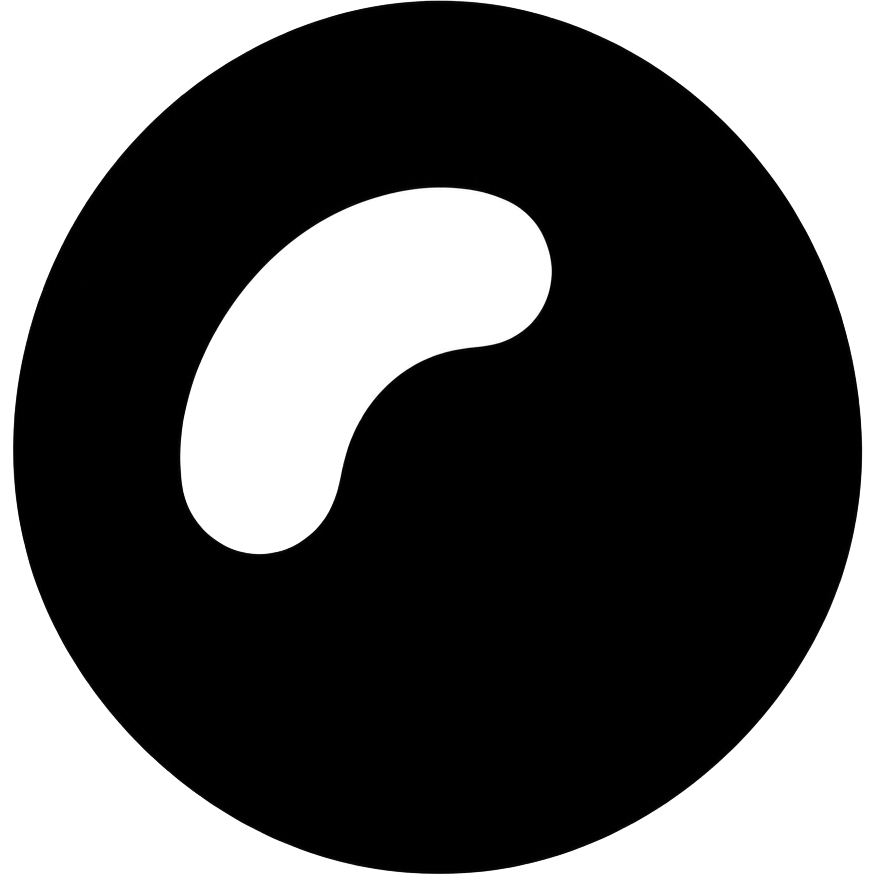
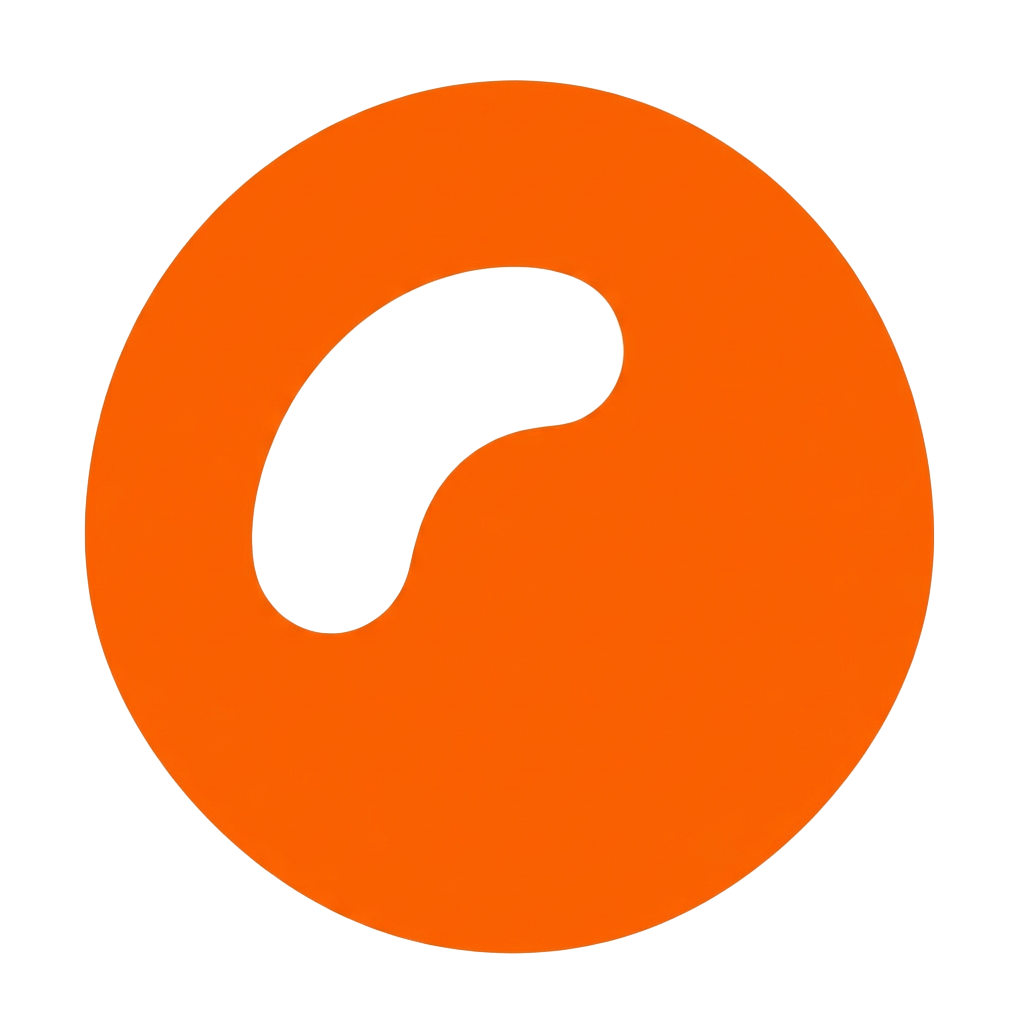
Changes

diff --git a/roadmap.md b/roadmap.md
@@ -1,5 +1,6 @@
 # Roadmap
-- [ ] Remove supplied logo background and adapt its mark to light/dark themes; update shared logo and app icons
+- [ ] Keep supplied logo orange with transparent exterior and cutout in both themes; update shared logo and app icons
+- [ ] Unify site palette to white, black and orange (user correction); preserve service status and third-party brand colors
 - [x] Audit unused/legacy pages, provider paths, dependencies and duplicates; execute first conservative cleanup batch; report in docs/audits/elgiza-cleanup.md
 - [x] Apply elgiza name and supplied logo to central identity and primary public screens, metadata and installed-app icons; preserve service contracts
 - [ ] Complete remaining provider/dependency/CSS cleanup — requires deployment-consumer validation before removal
